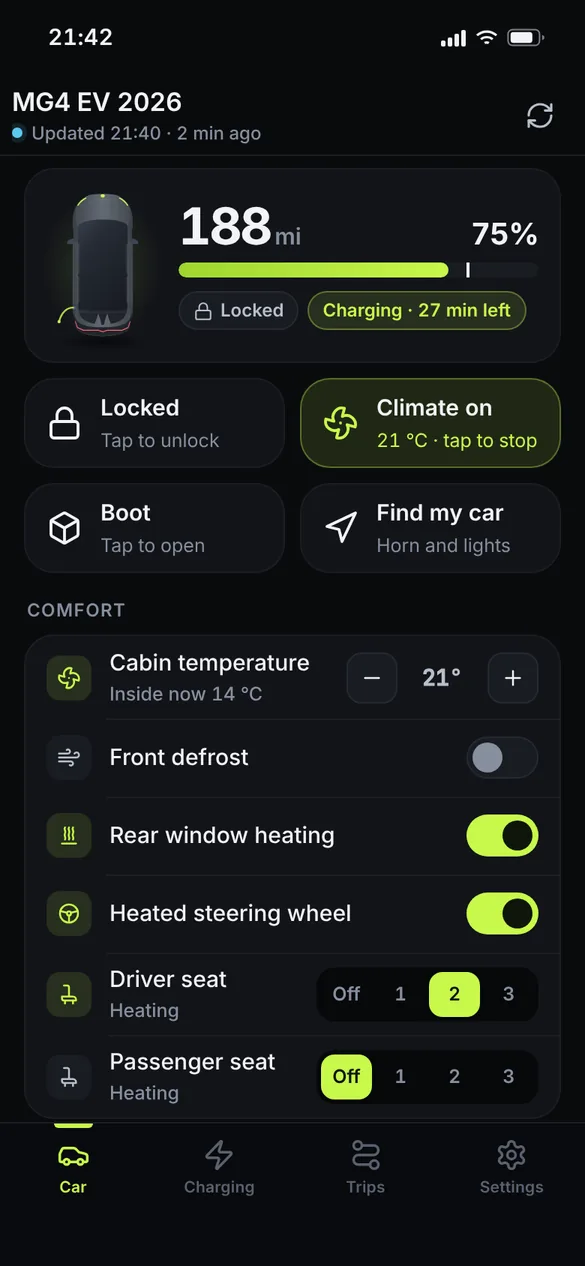
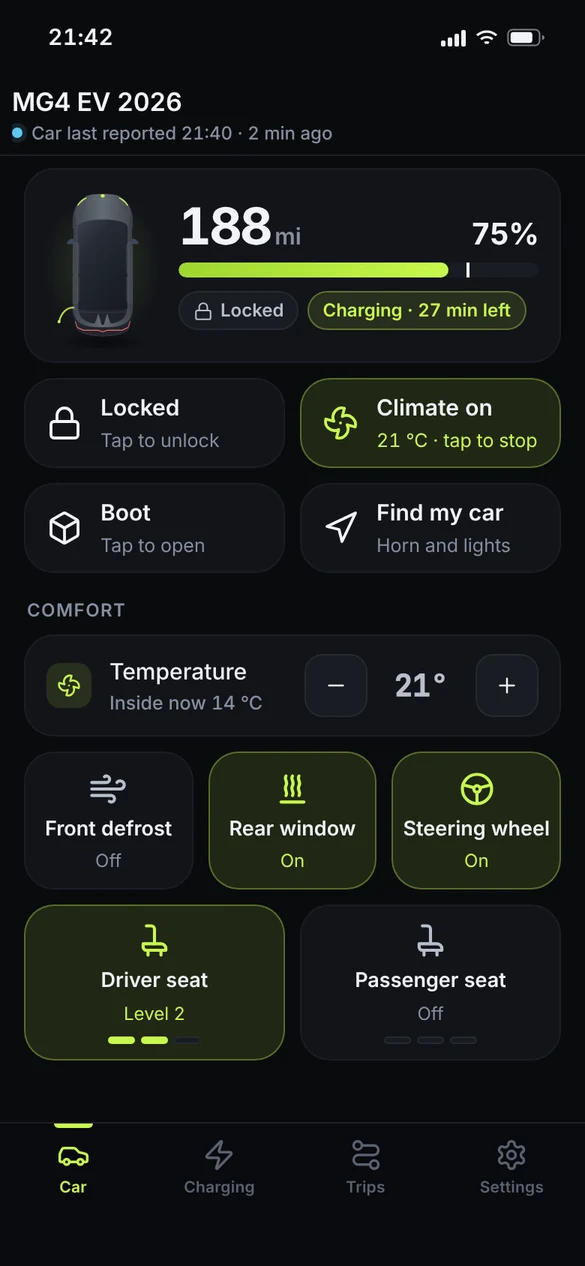
Android app: comfort controls as buttons
Front defrost, rear window heating and the heated steering wheel are
tap-to-toggle buttons; each seat heater is a button that steps through
its levels. The Car tab now fits on one screen.

Claude-Session: https://claude.ai/code/session_01JCP7VYKviN2RQWHv2Hq39c

diff --git a/android/app/src/main/java/io/github/viriatusog/mgmate/ui/CarScreen.kt b/android/app/src/main/java/io/github/viriatusog/mgmate/ui/CarScreen.kt
@@ -13,6 +13,7 @@ import androidx.compose.foundation.layout.Row
 import androidx.compose.foundation.layout.Spacer
 import androidx.compose.foundation.layout.fillMaxWidth
 import androidx.compose.foundation.layout.height
+import androidx.compose.foundation.layout.heightIn
 import androidx.compose.foundation.layout.padding
 import androidx.compose.foundation.layout.size
 import androidx.compose.foundation.layout.width
@@ -33,6 +34,7 @@ import androidx.compose.material.icons.outlined.NearMe
 import androidx.compose.material.icons.outlined.Remove
 import androidx.compose.material.icons.outlined.Thermostat
 import androidx.compose.material.icons.outlined.Waves
+import androidx.compose.material3.CircularProgressIndicator
 import androidx.compose.material3.Icon
 import androidx.compose.material3.Text
 import androidx.compose.runtime.Composable
@@ -47,6 +49,7 @@ import androidx.compose.ui.draw.clip
 import androidx.compose.ui.graphics.vector.ImageVector
 import androidx.compose.ui.semantics.Role
 import androidx.compose.ui.text.font.FontWeight
+import androidx.compose.ui.text.style.TextOverflow
 import androidx.compose.ui.unit.dp
 import androidx.compose.ui.unit.sp
 import io.github.viriatusog.mgmate.AppViewModel
@@ -134,34 +137,94 @@ fun CarScreen(vm: AppViewModel, ask: (Confirm) -> Unit) {
         }
 
         SectionTitle("Comfort")
-        Panel {
-            TemperatureRow(vm, status)
-            RowDivider()
+        Panel { TemperatureRow(vm, status) }
+
+        Row(horizontalArrangement = Arrangement.spacedBy(10.dp)) {
             val front = status?.climateMode == "front"
-            ListRow(Icons.Outlined.Air, "Front defrost", on = front) {
-                BusySwitch(front, vm.pending["front"] == true) { wanted ->
-                    vm.send("front", "climate", if (wanted) "front" else "off") { (it.climateMode == "front") == wanted }
-                }
+            ComfortButton(Icons.Outlined.Air, "Front defrost", Modifier.weight(1f), on = front, busy = vm.pending["front"] == true) {
+                val wanted = !front
+                vm.send("front", "climate", if (wanted) "front" else "off") { (it.climateMode == "front") == wanted }
             }
-            RowDivider()
             val rear = status?.rearWindowDefroster == true
-            ListRow(Icons.Outlined.Waves, "Rear window heating", on = rear) {
-                BusySwitch(rear, vm.pending["rear"] == true) { wanted ->
-                    vm.send("rear", "rear-defroster", if (wanted) "on" else "off") { (it.rearWindowDefroster == true) == wanted }
-                }
+            ComfortButton(Icons.Outlined.Waves, "Rear window", Modifier.weight(1f), on = rear, busy = vm.pending["rear"] == true) {
+                val wanted = !rear
+                vm.send("rear", "rear-defroster", if (wanted) "on" else "off") { (it.rearWindowDefroster == true) == wanted }
             }
-            RowDivider()
             val wheel = status?.steeringWheelHeating == true
-            ListRow(Icons.Outlined.Adjust, "Heated steering wheel", on = wheel) {
-                BusySwitch(wheel, vm.pending["wheel"] == true) { wanted ->
-                    vm.send("wheel", "steering-wheel-heat", if (wanted) "on" else "off") { (it.steeringWheelHeating == true) == wanted }
+            ComfortButton(Icons.Outlined.Adjust, "Steering wheel", Modifier.weight(1f), on = wheel, busy = vm.pending["wheel"] == true) {
+                val wanted = !wheel
+                vm.send("wheel", "steering-wheel-heat", if (wanted) "on" else "off") { (it.steeringWheelHeating == true) == wanted }
+            }
+        }
+        Row(horizontalArrangement = Arrangement.spacedBy(10.dp)) {
+            SeatButton(vm, "Driver seat", "seat-left", status?.heatedSeatFrontLeft, Modifier.weight(1f)) { it.heatedSeatFrontLeft }
+            SeatButton(vm, "Passenger seat", "seat-right", status?.heatedSeatFrontRight, Modifier.weight(1f)) { it.heatedSeatFrontRight }
+        }
+    }
+}
+
+/**
+ * A comfort control as a button: tap to switch it, lit while it is on. With [level] it also shows
+ * three bars for a seat heater's strength.
+ */
+@Composable
+private fun ComfortButton(
+    icon: ImageVector,
+    title: String,
+    modifier: Modifier = Modifier,
+    on: Boolean = false,
+    busy: Boolean = false,
+    level: Int? = null,
+    onClick: () -> Unit,
+) {
+    val shape = RoundedCornerShape(20.dp)
+    val state = when {
+        busy -> "Sending"
+        level != null && level > 0 -> "Level $level"
+        on -> "On"
+        else -> "Off"
+    }
+    Column(
+        modifier
+            .heightIn(min = 96.dp)
+            .clip(shape)
+            .background(if (on) Volt.AccentWash else Volt.Elev)
+            .border(1.dp, if (on) Volt.AccentLine else Volt.LineSoft, shape)
+            .clickable(enabled = !busy, role = Role.Button, onClickLabel = title, onClick = onClick)
+            .padding(horizontal = 6.dp, vertical = 12.dp),
+        horizontalAlignment = Alignment.CenterHorizontally,
+        verticalArrangement = Arrangement.spacedBy(4.dp, Alignment.CenterVertically),
+    ) {
+        if (busy) {
+            CircularProgressIndicator(Modifier.size(26.dp), color = Volt.Info, strokeWidth = 2.5.dp)
+        } else {
+            Icon(icon, contentDescription = null, tint = if (on) Volt.Accent else Volt.Ink2, modifier = Modifier.size(26.dp))
+        }
+        Text(title, color = Volt.Ink, fontSize = 13.5.sp, fontWeight = FontWeight.SemiBold, maxLines = 1, overflow = TextOverflow.Ellipsis)
+        Text(
+            state,
+            color = if (busy) Volt.Info else if (on) Volt.Accent else Volt.Ink3,
+            fontSize = 12.sp,
+            maxLines = 1,
+            overflow = TextOverflow.Ellipsis,
+        )
+        if (level != null) {
+            Row(Modifier.padding(top = 2.dp), horizontalArrangement = Arrangement.spacedBy(4.dp)) {
+                for (bar in 1..3) {
+                    Box(Modifier.size(width = 18.dp, height = 5.dp).clip(RoundedCornerShape(3.dp)).background(if (bar <= level) Volt.Accent else Volt.Raise))
                 }
             }
-            RowDivider()
-            SeatRow(vm, "Driver seat", "seat-left", status?.heatedSeatFrontLeft) { it.heatedSeatFrontLeft }
-            RowDivider()
-            SeatRow(vm, "Passenger seat", "seat-right", status?.heatedSeatFrontRight) { it.heatedSeatFrontRight }
         }
+    }
+}
+
+/** A seat heater: each tap goes one level up, and from 3 back to off. */
+@Composable
+private fun SeatButton(vm: AppViewModel, title: String, command: String, level: Int?, modifier: Modifier, read: (CarStatus) -> Int?) {
+    val now = (level ?: 0).coerceIn(0, 3)
+    ComfortButton(Icons.Outlined.EventSeat, title, modifier, on = now > 0, busy = vm.pending[command] == true, level = now) {
+        val wanted = if (now >= 3) 0 else now + 1
+        vm.send(command, command, wanted.toString()) { (read(it) ?: 0) == wanted }
     }
 }
 
@@ -248,15 +311,15 @@ private fun TemperatureRow(vm: AppViewModel, status: CarStatus?) {
     }
 
     val inside = status?.interiorTemperature?.let { "Inside now ${it.roundToInt()} °C" }
-    ListRow(Icons.Outlined.Thermostat, "Cabin temperature", inside, on = status?.climateOn == true) {
+    ListRow(Icons.Outlined.Thermostat, "Temperature", inside, on = status?.climateOn == true) {
         Row(verticalAlignment = Alignment.CenterVertically, horizontalArrangement = Arrangement.spacedBy(6.dp)) {
             StepButton(Icons.Outlined.Remove, "Cooler", enabled = !busy && shown > MIN_TEMPERATURE) { wanted = shown - 1 }
             Text(
                 "$shown°",
                 color = if (busy) Volt.Info else Volt.Ink,
-                fontSize = 16.sp,
+                fontSize = 20.sp,
                 fontWeight = FontWeight.SemiBold,
-                modifier = Modifier.widthIn(min = 36.dp),
+                modifier = Modifier.widthIn(min = 44.dp),
                 textAlign = androidx.compose.ui.text.style.TextAlign.Center,
             )
             StepButton(Icons.Outlined.Add, "Warmer", enabled = !busy && shown < MAX_TEMPERATURE) { wanted = shown + 1 }
@@ -269,7 +332,7 @@ private fun StepButton(icon: ImageVector, label: String, enabled: Boolean, onCli
     val shape = RoundedCornerShape(10.dp)
     Box(
         Modifier
-            .size(40.dp)
+            .size(44.dp)
             .clip(shape)
             .background(Volt.Raise)
             .border(1.dp, Volt.Line, shape)
@@ -277,20 +340,5 @@ private fun StepButton(icon: ImageVector, label: String, enabled: Boolean, onCli
         contentAlignment = Alignment.Center,
     ) {
         Icon(icon, contentDescription = label, tint = if (enabled) Volt.Ink else Volt.Ink4, modifier = Modifier.size(18.dp))
-    }
-}
-
-@Composable
-private fun SeatRow(vm: AppViewModel, title: String, command: String, level: Int?, read: (CarStatus) -> Int?) {
-    val on = (level ?: 0) > 0
-    ListRow(Icons.Outlined.EventSeat, title, "Heating", on = on) {
-        Segmented(
-            options = listOf(0 to "Off", 1 to "1", 2 to "2", 3 to "3"),
-            selected = level ?: 0,
-            modifier = Modifier.width(168.dp),
-            busy = vm.pending[command] == true,
-        ) { wanted ->
-            vm.send(command, command, wanted.toString()) { (read(it) ?: 0) == wanted }
-        }
     }
 }

diff --git a/README.md b/README.md
@@ -616,7 +616,7 @@ MGMate has a native Android app for the things you do from your pocket: the cont
 
 | Car | Charging | Trips | A trip | Sign-in |
 |---|---|---|---|---|
-| <img src="documentation/screenshots/android-car.webp" alt="The app's Car tab: range and charge level beside the car from above, buttons for the locks, climate, boot and find my car, and switches for defrost, rear window heating, the heated steering wheel and both seats" width="180"> | <img src="documentation/screenshots/android-charging.webp" alt="The app's Charging tab: the charge level in a ring with the power and time left, a Stop charging button, the charge limit, the charging current, the cable lock, battery heating and the car's schedule" width="180"> | <img src="documentation/screenshots/android-trips.webp" alt="The app's Trips tab: a map with the car on it, since when it has been parked, a Directions button, and the trips of each day with distance, mi/kWh and battery used" width="180"> | <img src="documentation/screenshots/android-trip-detail.webp" alt="A trip opened in the app: its route on a map and its distance, time, efficiency, battery, energy and average speed" width="180"> | <img src="documentation/screenshots/android-sign-in.webp" alt="The app's sign-in: the server address, username and password, and a Connect button" width="180"> |
+| <img src="documentation/screenshots/android-car.webp" alt="The app's Car tab: range and charge level beside the car from above, buttons for the locks, climate, boot and find my car, the cabin temperature, and buttons for front defrost, rear window heating, the heated steering wheel and both seat heaters" width="180"> | <img src="documentation/screenshots/android-charging.webp" alt="The app's Charging tab: the charge level in a ring with the power and time left, a Stop charging button, the charge limit, the charging current, the cable lock, battery heating and the car's schedule" width="180"> | <img src="documentation/screenshots/android-trips.webp" alt="The app's Trips tab: a map with the car on it, since when it has been parked, a Directions button, and the trips of each day with distance, mi/kWh and battery used" width="180"> | <img src="documentation/screenshots/android-trip-detail.webp" alt="A trip opened in the app: its route on a map and its distance, time, efficiency, battery, energy and average speed" width="180"> | <img src="documentation/screenshots/android-sign-in.webp" alt="The app's sign-in: the server address, username and password, and a Connect button" width="180"> |
 
 The pictures are the design the app was built from, with sample data.
 
